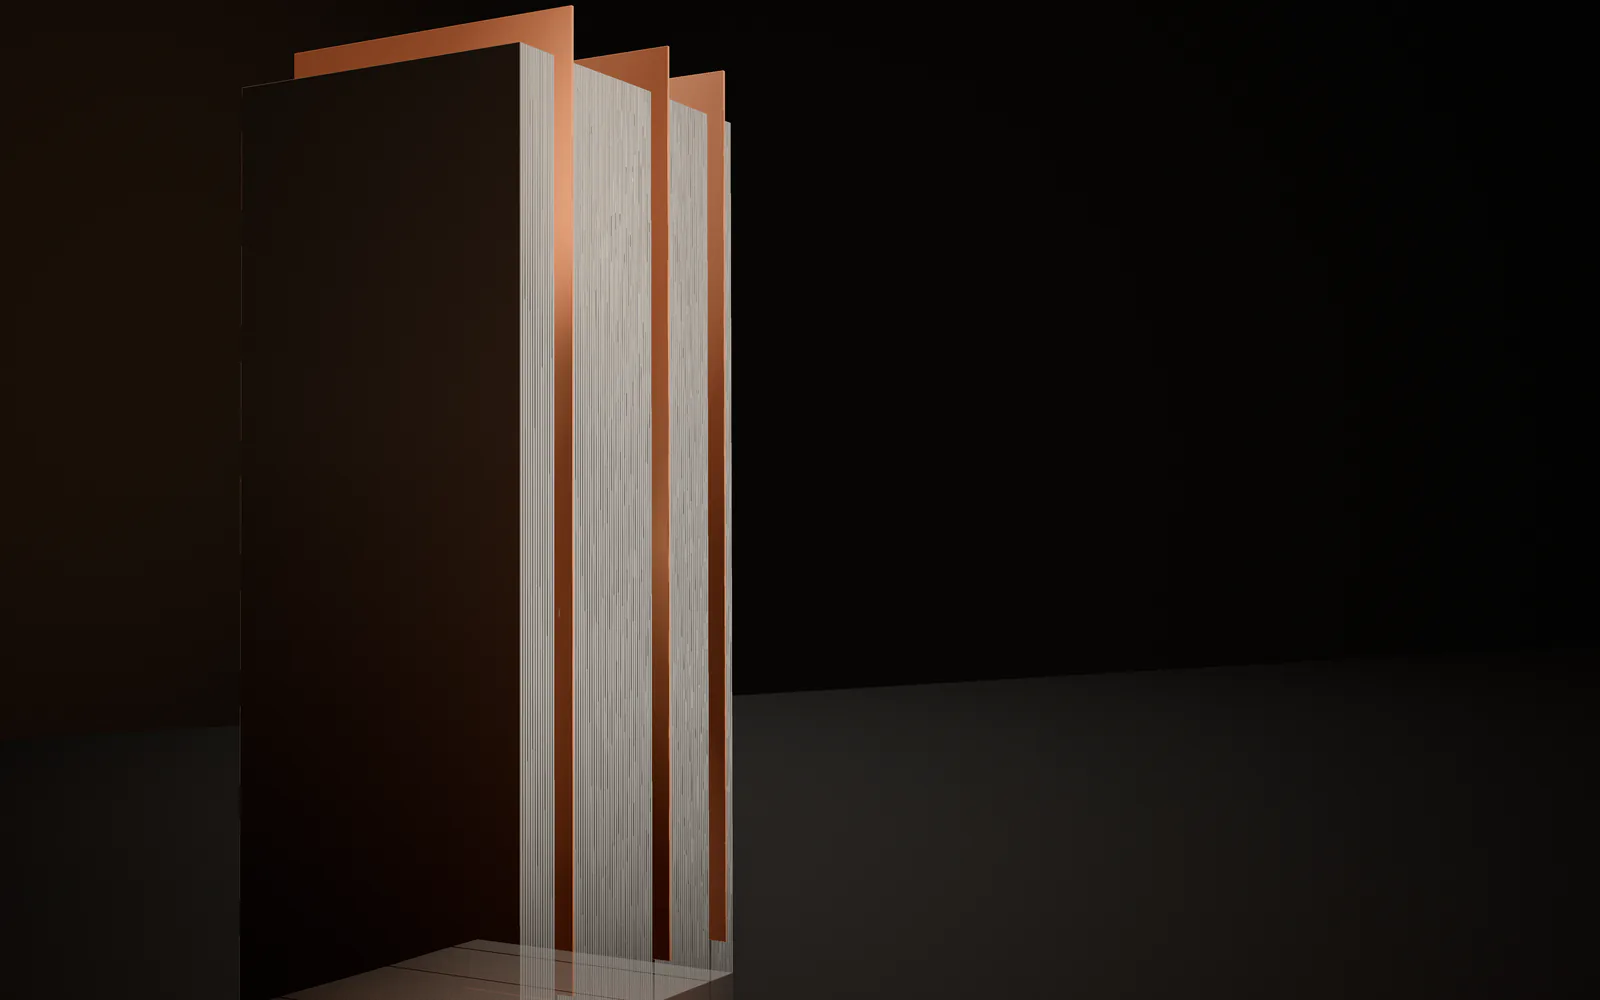
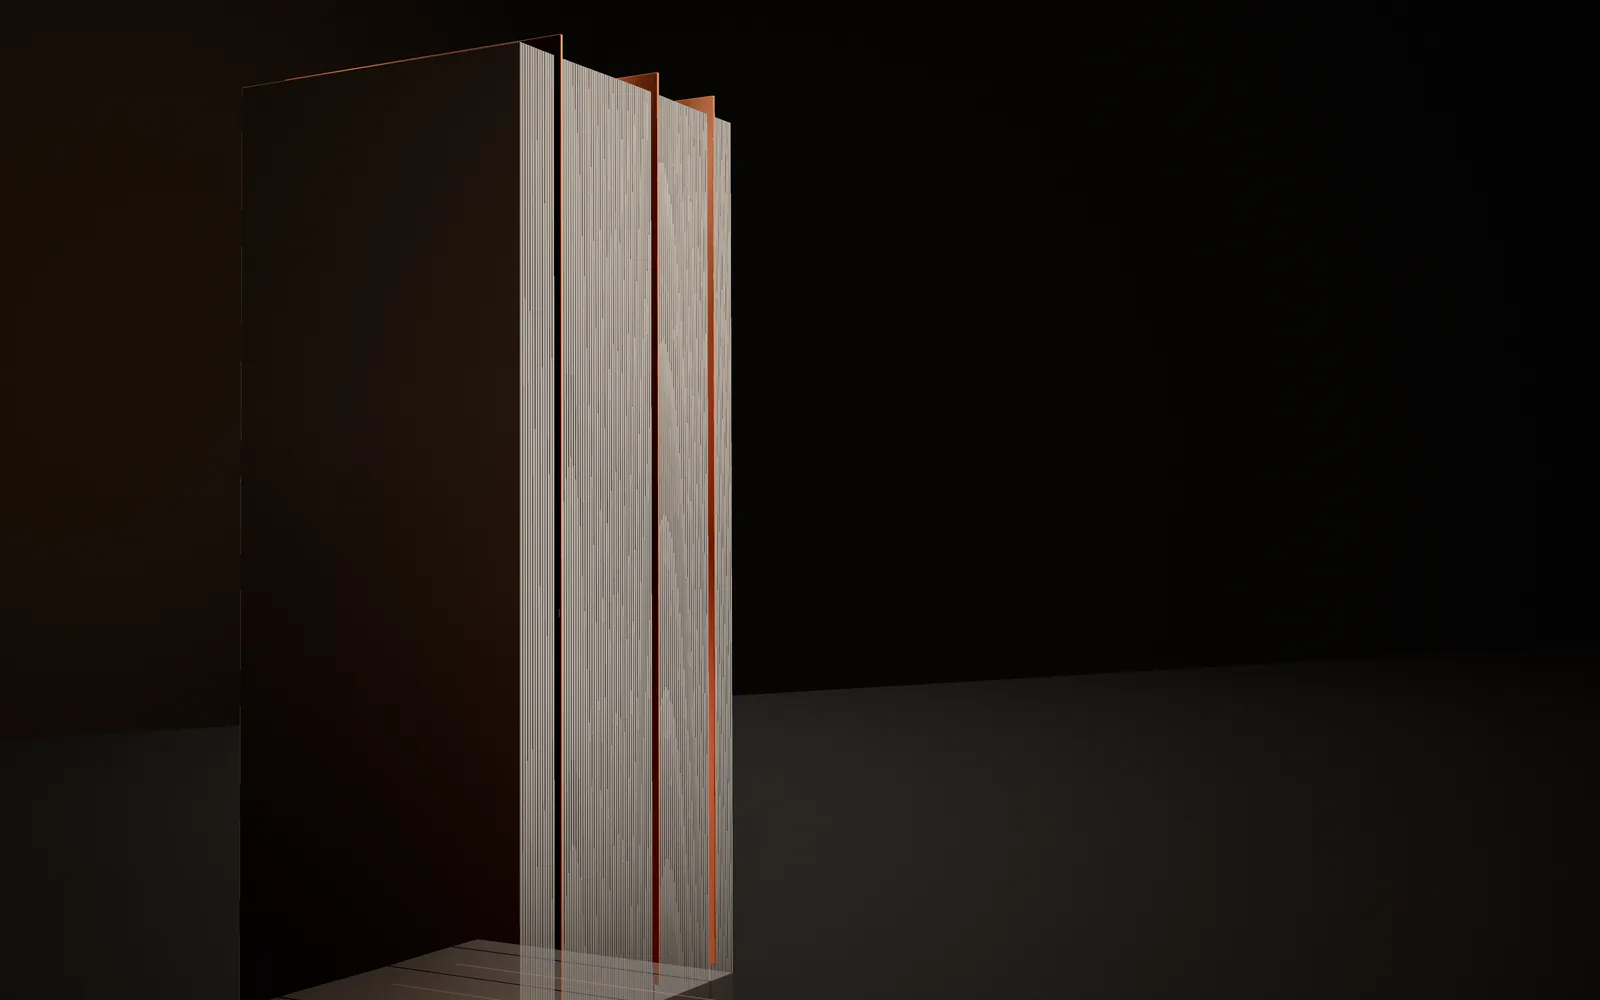
Third review round: the opening monolith faces the camera with its 100 sliced edges
- p0 turns its sliced face to the camera, so the plate edges resolve as discrete lines
  (no moire) and the three copper slices read as three inlaid lines in a hundred; copper
  stands only a hair proud; a hard strip behind right gives the side face its band
- hero is the name and one line; the header pill is the action
- chapter rail names chapters without numerals; short desktop windows step the chapter
  display size down so pinned copy clears the rail
- the campaign benchmark is one ruled sentence that leads with the sample
- index readout numbers never wrap; stills and OG cards re-rendered

Claude-Session: https://claude.ai/code/session_01PECqvRYuMqha9srKUyUX4Z

Changed region(s): [[0.1875, 0.0, 0.4688, 1.0]]

diff --git a/src/film/monolith.ts b/src/film/monolith.ts
@@ -52,7 +52,7 @@ function monolith(yaw: number): Pose {
   for (let i = 0; i < N; i++) {
     // the three copper slices stand a few millimetres proud of the block, so their edges take the key light
     const proud = isCopper(i) ? 1 : 0;
-    P.p[i]!.set((i - (N - 1) / 2) * PITCH, H / 2 + proud * 0.14, proud * 0.06).applyQuaternion(turn);
+    P.p[i]!.set((i - (N - 1) / 2) * PITCH, H / 2 + proud * 0.06, proud * 0.022).applyQuaternion(turn);
     P.q[i]!.copy(turn);
     P.order[i] = Math.abs(i - (N - 1) / 2) / ((N - 1) / 2);
     P.occ[i * 2] = i > 0 ? 1 : 0;
@@ -235,14 +235,14 @@ export function buildMonolith(shadows: boolean): Monolith {
         // the block's own outer corners keep their rounded chamfer: that is where the strip light glints
         + ' float outer = step(0.2, -vLocalN.x) * (1.0 - vOcc.x) + step(0.2, vLocalN.x) * (1.0 - vOcc.y);\n'
         // (three's specular anti-aliasing reads nonPerturbedNormal, so it has to agree)
-        + (reflection ? '' : ' normal = normalize(mix(normal, flatN * faceDirection, (1.0 - smoothstep(2.0, 4.5, pitchPx)) * (1.0 - clamp(outer, 0.0, 1.0))));\n nonPerturbedNormal = normal;\n'),
+        + (reflection ? '' : ' normal = normalize(mix(normal, flatN * faceDirection, (1.0 - smoothstep(1.6, 3.0, pitchPx)) * (1.0 - clamp(outer, 0.0, 1.0))));\n nonPerturbedNormal = normal;\n'),
       )
       .replace(
         '#include <opaque_fragment>',
         // faces pressed against a neighbour get no light: the stack reads as machined slices with bright edges
         // (a slice narrower than a few pixels would alias into a moire, so the gaps fade out with distance)
         ' float occN = smoothstep(0.5, 0.92, -vLocalN.x) * vOcc.x + smoothstep(0.5, 0.92, vLocalN.x) * vOcc.y;\n'
-        + ' outgoingLight *= 1.0 - 0.94 * occN * smoothstep(2.0, 4.5, pitchPx);\n'
+        + ' outgoingLight *= 1.0 - 0.94 * occN * smoothstep(1.6, 3.0, pitchPx);\n'
         + (reflection ? ' diffuseColor.a *= 0.09 * exp(vWorldY * 2.4);\n' : '')
         + '#include <opaque_fragment>',
       );
@@ -266,7 +266,8 @@ export function buildMonolith(shadows: boolean): Monolith {
   reflection.renderOrder = 1;
   mesh.renderOrder = 2;
 
-  const poses = [monolith(-0.62), fan(-0.2), register(), page(), monolith(0.35)];
+  // the opening monolith shows its sliced face to the camera: 100 edges, three of them copper
+  const poses = [monolith(0.05), fan(-0.2), register(), page(), monolith(0.35)];
 
   const m4 = new Matrix4();
   const pp = v(), qq = new Quaternion(), ss = v();

diff --git a/src/film/studio.ts b/src/film/studio.ts
@@ -38,6 +38,8 @@ export function studioEnvironment(renderer: WebGLRenderer): Texture {
   card(3, 6, 0.55, '#f6efe6', 9, 3, 0, [0, 1.5, 0]);
   // a narrow hard strip beside it: on the broad aluminium faces it reads as the crisp band that says polished metal
   card(1.1, 9, 7, '#fbf6ef', 9, 3.2, 1.7, [0, 1.5, 0]);
+  // a hard strip behind right: the side face of the opening monolith catches it as one clean band
+  card(0.8, 9, 6, '#fbf6ef', 3.4, 3.2, -9, [0, 1.5, 0]);
   // dark grey studio walls all round, so no metal face ever reads as a hole
   const walls = new Mesh(new CylinderGeometry(15, 15, 7, 32, 1, true), new MeshBasicMaterial({ color: new Color('#b8b0a6').multiplyScalar(0.09), side: BackSide }));
   walls.position.y = 2.5;
@@ -107,7 +109,7 @@ export function buildStudio(scene: Scene, shadows: boolean, shadowSize: number):
 
   // a low copper spill from the front left: it rakes the floor and warms the foot of the object, so the dark field
   // reads as a lit studio rather than a void
-  const spill = new SpotLight('#ff9a5c', 38, 18, 0.62, 1, 1.4);
+  const spill = new SpotLight('#ff9a5c', 30, 18, 0.62, 1, 1.4);
   spill.position.set(-6.5, 0.9, 4.5);
   spill.target = new Object3D();
   spill.target.position.set(0.5, 0.2, -0.5);

diff --git a/src/content/copy.ts b/src/content/copy.ts
@@ -59,6 +59,7 @@ const pl = {
         ['Z Twojej skrzynki', 'Gmail, Outlook albo SMTP. Gdy ktoś odpisze, kolejne maile do tej osoby się zatrzymują.'],
       ] as [string, string][],
       sheetH2: 'Sprawdź, ile firm czeka w Twojej branży.',
+      benchNote: 'Dane z 31 sierpnia 2026. Próba nie jest reprezentatywna dla całego rynku, a metodę opisuje raport.',
       benchH3: 'Kampanie użytkowników',
       plansH3: 'Plany',
     },
@@ -471,6 +472,7 @@ const en: Copy = {
         ['From your own mailbox', 'Gmail, Outlook or SMTP. When someone replies, the follow-ups to that person stop.'],
       ] as [string, string][],
       sheetH2: 'See how many companies are waiting in your sector.',
+      benchNote: 'Data as of 31 August 2026. The sample does not represent the whole market; the report describes the method.',
       benchH3: 'User campaigns',
       plansH3: 'Plans',
     },

diff --git a/src/film/film.ts b/src/film/film.ts
@@ -42,7 +42,7 @@ interface Shot { pos: [number, number, number]; tgt: [number, number, number]; f
 
 /** Camera per pose. fx: where the object sits on a wide screen (fraction of width from the centre; + = right). */
 const SHOTS: Shot[] = [
-  { pos: [3.6, 2.05, 6.75], tgt: [0, 1.55, 0], fov: 30, fx: 0.2, drift: 0.34 },
+  { pos: [3.25, 2.0, 6.1], tgt: [0, 1.55, 0], fov: 30, fx: 0.2, drift: 0.3 },
   { pos: [1.1, 5.3, 7.4], tgt: [0, 1.6, 0], fov: 32, fx: 0.2, drift: 0.22 },
   { pos: [-4.6, 2.3, 3.0], tgt: [0.2, 1.0, -1.7], fov: 34, fx: -0.19, drift: 0 },
   { pos: [0.65, 3.95, 10.9], tgt: [0.1, 2.95, 0.5], fov: 34, fx: 0.2, drift: 0.28 },
